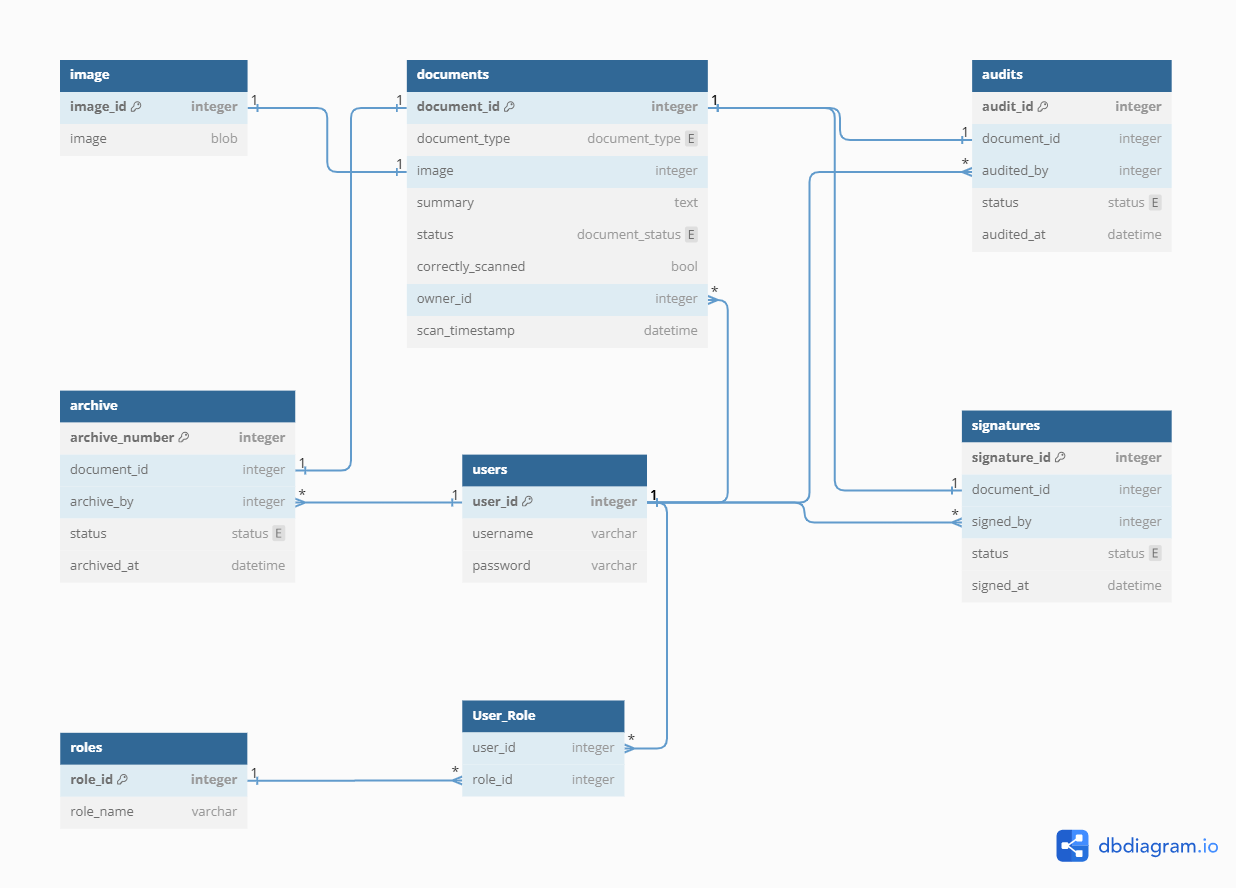
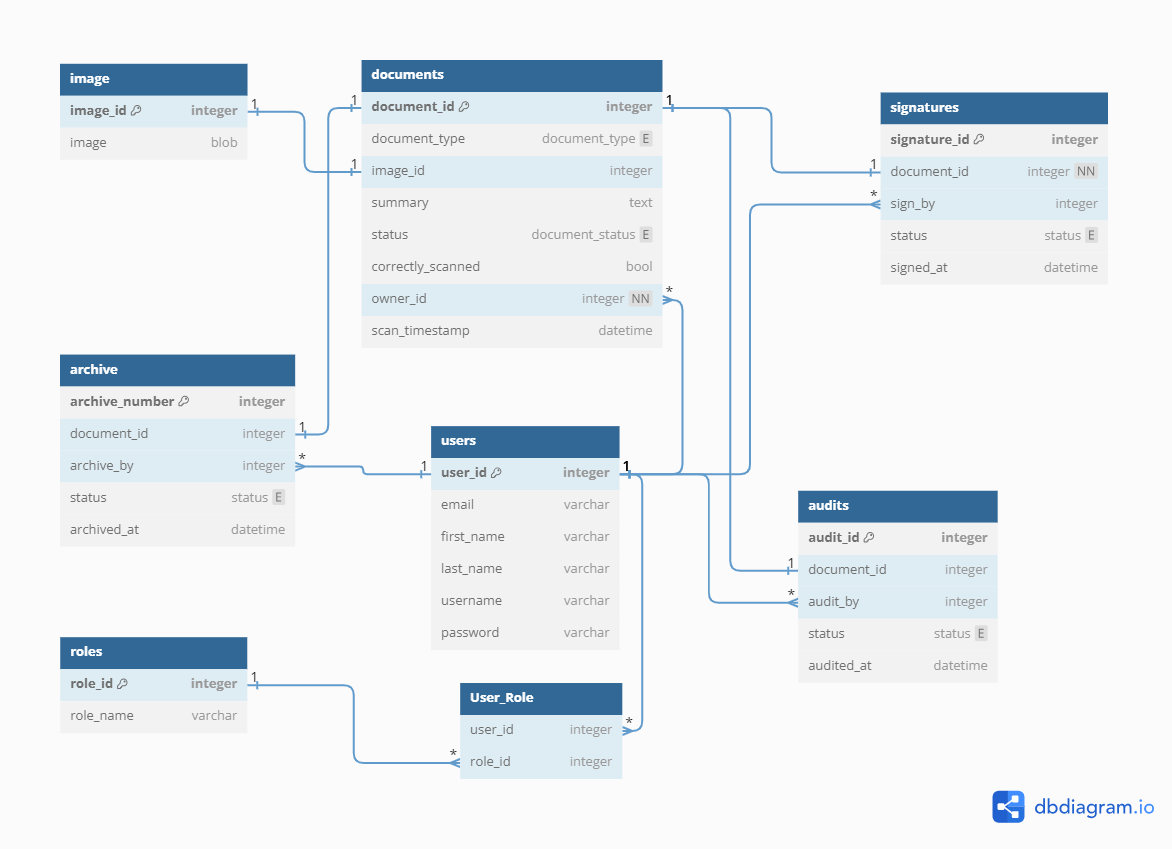
uvod u poglavlje 4 i update baze na stvarne podatke

diff --git a/Dokumentacija/Arhitektura.tex b/Dokumentacija/Arhitektura.tex
@@ -2,12 +2,27 @@
 		
 		%\textbf{\textit{dio 1. revizije}}\\
 
-		\textit{ Potrebno je opisati stil arhitekture te identificirati: podsustave, preslikavanje na radnu platformu, spremišta podataka, mrežne protokole, globalni upravljački tok i sklopovsko-programske zahtjeve. Po točkama razraditi i popratiti odgovarajućim skicama:}
-	\begin{itemize}
-		\item 	\textit{izbor arhitekture temeljem principa oblikovanja pokazanih na predavanjima (objasniti zašto ste baš odabrali takvu arhitekturu)}
-		\item 	\textit{organizaciju sustava s najviše razine apstrakcije (npr. klijent-poslužitelj, baza podataka, datotečni sustav, grafičko sučelje)}
-		\item 	\textit{organizaciju aplikacije (npr. slojevi frontend i backend, MVC arhitektura) }		
-	\end{itemize}
+		%\textit{ Potrebno je opisati stil arhitekture te identificirati: podsustave, preslikavanje na radnu platformu, spremišta podataka, mrežne protokole, globalni upravljački tok i sklopovsko-programske zahtjeve. Po točkama razraditi i popratiti odgovarajućim skicama:}
+%	\begin{itemize}
+%		\item 	\textit{izbor arhitekture temeljem principa oblikovanja pokazanih na predavanjima (objasniti zašto ste baš odabrali takvu arhitekturu)}
+%		\item 	\textit{organizaciju sustava s najviše razine apstrakcije (npr. klijent-poslužitelj, baza podataka, datotečni sustav, grafičko sučelje)}
+%		\item 	\textit{organizaciju aplikacije (npr. slojevi frontend i backend, MVC arhitektura) }		
+%	\end{itemize}
+	
+		{Arhitektura rješenja se sastoji od 3 sustava: Mobilne aplikacije(Frontend), Web aplikacije(Backend) i Baze podataka.}
+		
+		{\underbar{Mobilna aplikacija} je softver namjenjen pokretanju na mobilnim uređajima poput mobitela i tableta. Ona pomoću API-a \textbf{(Application programming interface)} komunicira s web aplikacijom koja se brine za logiku. API je je skup pravila, protokola i definicija koje omogućuje komunikaciju između različitih programa ili aplikacija. Sama komunikacija se odvija pomoću HTTPS-a \textbf{(Hypertext Transfer Protocol Secure)}, što je sigurnija inačica HTTP-a \textbf{(Hypertext Transfer Protocol)} koji omogućuje kkomunikaciju na internetu. Kada web aplikacija primi zahtjev od mobilne aplikacije, ona ovisno o zahtjevu, pristupa bazi podataka kako bi dohvatila, promjenila ili dodala informacije. Ovisno o zahtjevu, web aplikacija vraća odgovor na orginalni zahtjev mobilne aplikacije i mobilna aplikacija prikazuje dobivene informacije kroz svoje sučelje.}
+		
+		{Mobilna aplikacija je razvijena pomoću programskog jezika \textit{Dart} te radnog okvira \textit{Flutter} unutar razvojnog okruženja \textit{Android Studio}. Web aplikacija je razvijena pomoću programskog jezika \textit{Python} te radnog okvira \textit{FastAPI} unutar razvojnog okruženja \textit{PyCharm} te je postavljena na \textit{render.com}. Sve podatke pohranjujemo unutar \textit{PostgreSQL} baze podataka koja je na \textit{Azure}-u.}
+		
+		{Aplikacija se temelji na MVC konceptu u modernijoj izvedbi koja je na web aplikaciji bliža tipičnoj arhitekturi fastapi aplikacija:}
+		\begin{itemize}
+			\item {\textbf{Model} - Model predstavlja strukture podatakae. On pristupa bazi podataka, te upravlja podacima. Unutar našeg rješenja, postoji poseban sloj u web aplikaciji koji komunicira s bazom podataka (CRUD klase).}
+			\item {\textbf{View} - Pogled predstavlja korisničko sučelje aplikacije te prikazuje sve informacije korisniku. Pomoću njega, korisnik može imati interakciju s ostatkom aplikacije. U našoj arhitekturi, to bi bila mobilna aplikacija koja prikazuje sve informacije i sama po sebi ima minimalnu logiku te primarna svrha je prikaz informacija korisniku.}
+			\item {\textbf{Controller} - Kontroler postoji između Viewa i Modela te služi da bi primao zahtjeve od Viewa, slao odgovore natrag Viewu, vrši poslovnu logiku te proslijeduje zahtjeve pripadnom djelu modela. Unutar naše izvedbe, Controller je dio Web aplikacije koji prima zahtjeve od mobilne aplikacije, vrši poslovnu logiku nad njima te prosljeđuje potrebne podatke iz zahtjeva modelu te od modela dobiva natrag podatke koje u prikladnom obliku prosljeđuje mobilnoj aplikaciji. U našoj izvedbi je izveden pomoću route funckija i Service klasa.}
+		\end{itemize} 
+		
+				
 
 	
 				
@@ -54,7 +69,7 @@
 				\end{longtblr}
 				
 				\textbf{Users} 
-				{  Sprema informacije o korisnicima, uključujući korisničko ime i lozinku. Ovaj entitet u vezi je \textit{One-to-Many} s entitetom \textbf{documents} preko atributa \textit{userID}, u vezi je \textit{One-to-Many} s entitetom \textbf{signatures} preko atributa \textit{userID}, u vezi je \textit{One-to-Many} s entitetom \textbf{audits} preko atributa \textit{userID}, u vezi je \textit{One-to-Many} s entitetom \textbf{archive} preko atributa \textit{userID}, u vezi je \textit{One-to-One} s entitetom \textbf{user\textunderscore role} preko atributa \textit{userID}.}
+				{  Sprema informacije o korisnicima, uključujući korisničko ime i lozinku, ime i prezime korisnika te email. Ovaj entitet u vezi je \textit{One-to-Many} s entitetom \textbf{documents} preko atributa \textit{userID}, u vezi je \textit{One-to-Many} s entitetom \textbf{signatures} preko atributa \textit{userID}, u vezi je \textit{One-to-Many} s entitetom \textbf{audits} preko atributa \textit{userID}, u vezi je \textit{One-to-Many} s entitetom \textbf{archive} preko atributa \textit{userID}, u vezi je \textit{One-to-Many} s entitetom \textbf{user\textunderscore role} preko atributa \textit{userID}.}
 				
 				\begin{longtblr}[
 					label=none,
@@ -66,9 +81,13 @@
 					} 
 					\hline \SetCell[c=3]{c}{\textbf{users}}	 \\ \hline[3pt]
 					\SetCell{LightGreen}userID & INT & identifikacijski broj korisnika  	\\ \hline
+					email & VARCHAR & email korisnika \\ \hline
+					firstName & VARCHAR & ime korisnika \\ \hline
+					lastName & VARCHAR & prezime korisnika \\ \hline
 					username	& VARCHAR & korisničko ime za prijavu korisnika	\\ \hline 
 					password & VARCHAR & šifa za prijavu korisnika  \\ \hline 
 				\end{longtblr}
+				
 				
 				\textbf{Signatures}
 				{  Služi za praćenje potpisa na dokumentima, s informacijama o korisniku koji je potpisao, statusu potpisa i vremenskoj oznaci potpisa. Ovaj entitet u vezi je \textit{Many-to-One} s entitetom \textbf{users} preko atributa \textit{signedBy}, u vezi je \textit{One-to-One} s entitetom \textbf{documents} preko atributa \textit{documentID}.}
